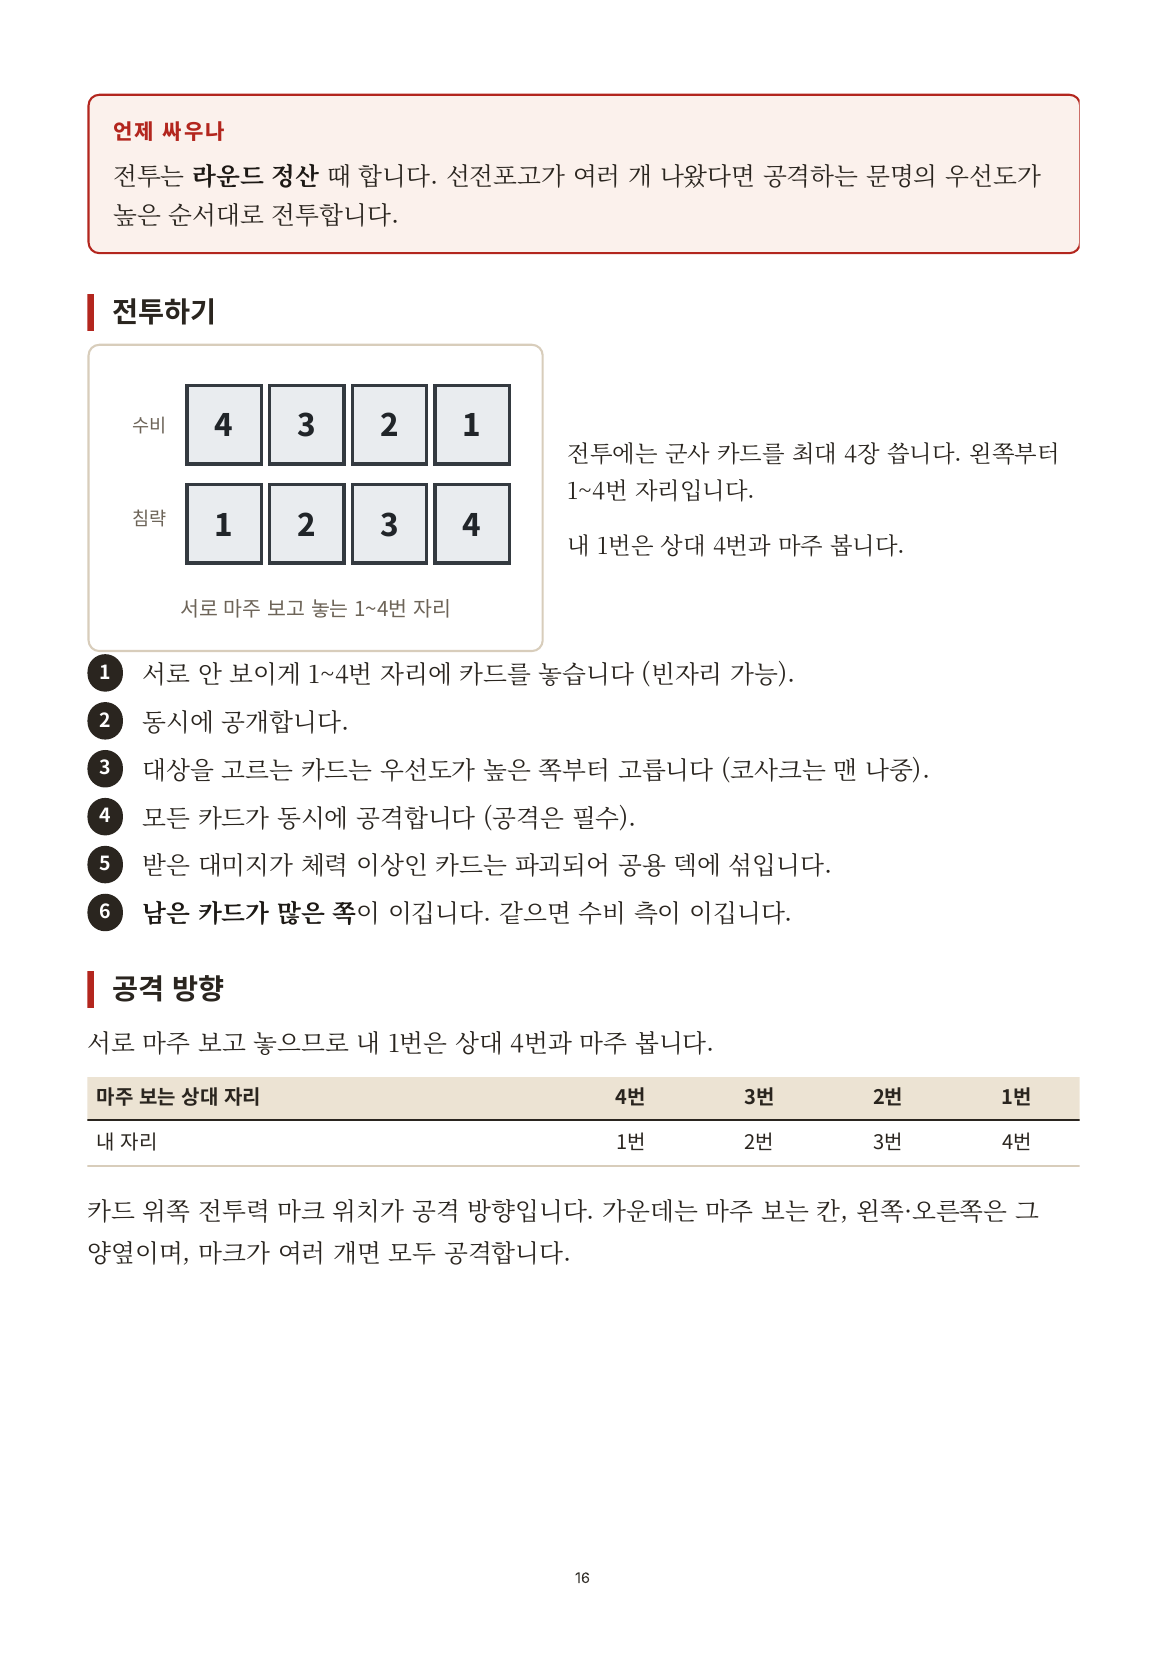
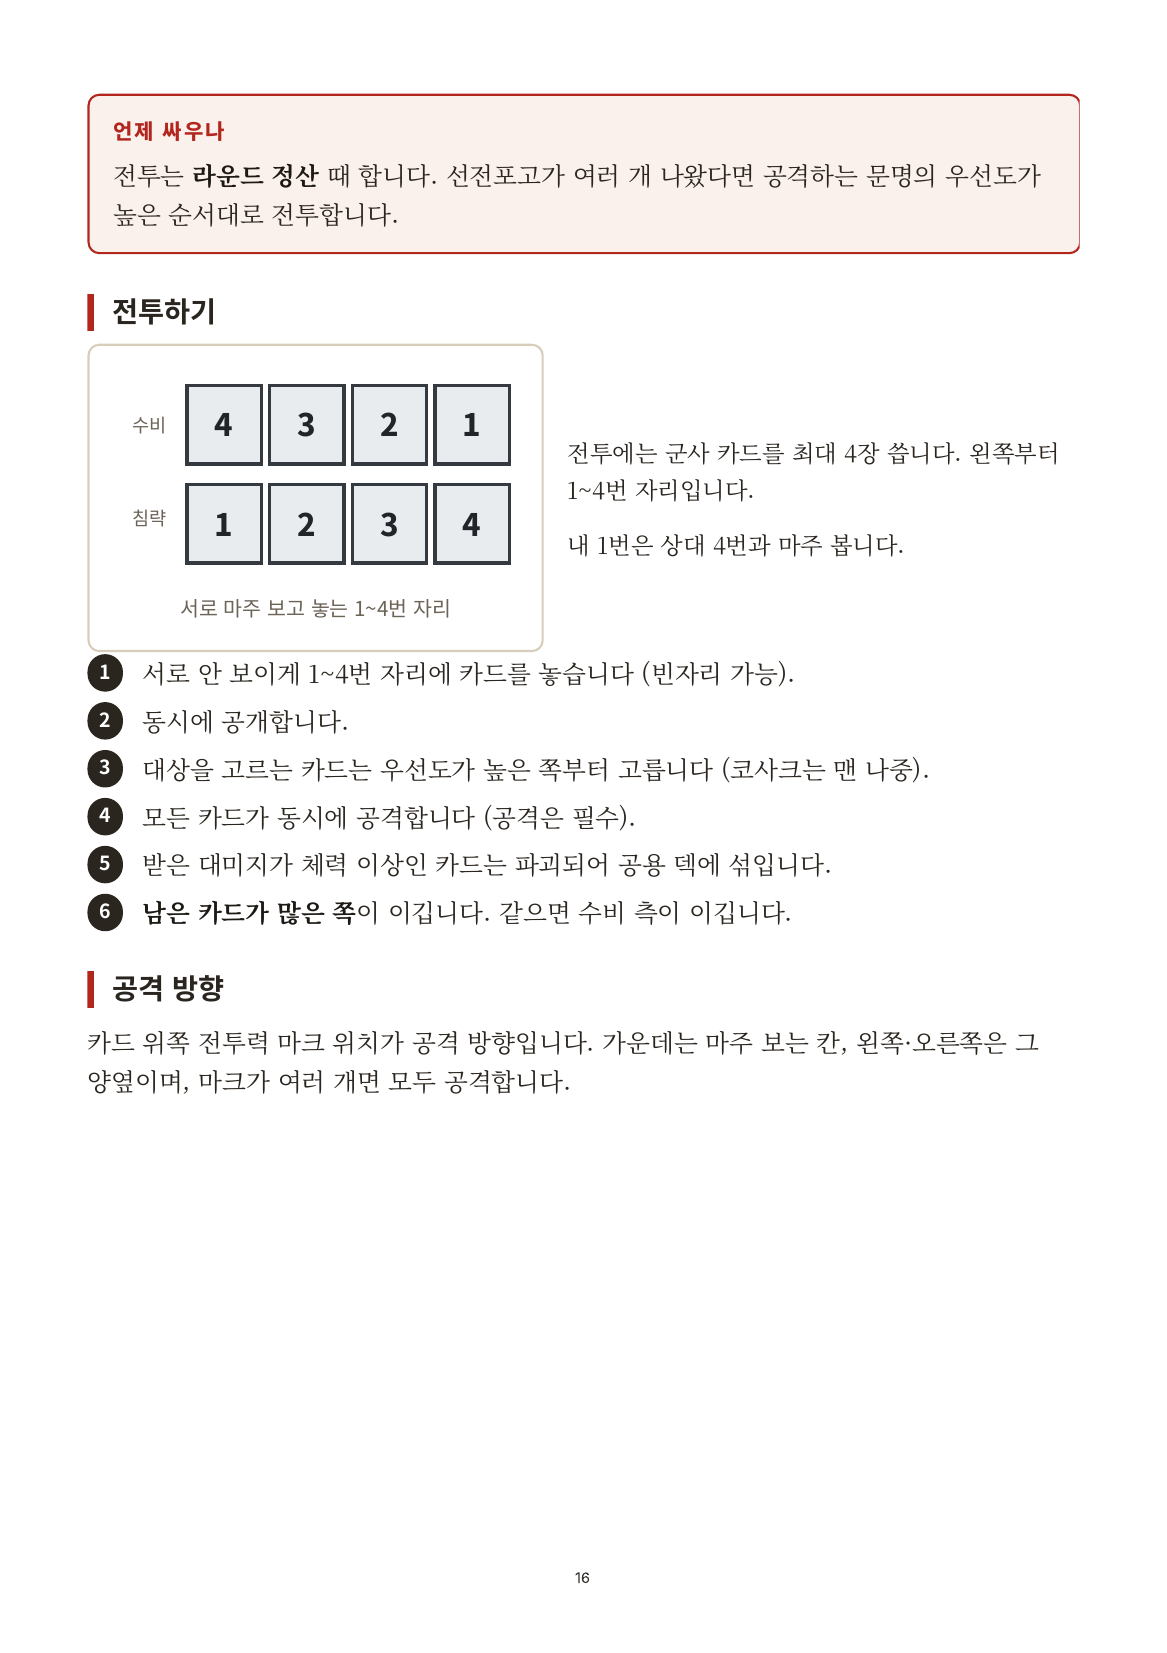
규칙서 10장: 공격 방향의 마주 보는 자리 문장·표 삭제
Claude-Session: https://claude.ai/code/session_01LEwiRiXRJPjckZxHM1aEbm

diff --git a/docs/rulebook/source/part3.html b/docs/rulebook/source/part3.html
@@ -66,11 +66,6 @@
   </ol>
 
   <h3>공격 방향</h3>
-  <p>서로 마주 보고 놓으므로 내 1번은 상대 4번과 마주 봅니다.</p>
-  <table class="small">
-    <thead><tr><th>마주 보는 상대 자리</th><th class="c">4번</th><th class="c">3번</th><th class="c">2번</th><th class="c">1번</th></tr></thead>
-    <tbody><tr><td>내 자리</td><td class="c">1번</td><td class="c">2번</td><td class="c">3번</td><td class="c">4번</td></tr></tbody>
-  </table>
   <p>카드 위쪽 전투력 마크 위치가 공격 방향입니다. 가운데는 마주 보는 칸, 왼쪽·오른쪽은 그 양옆이며, 마크가 여러 개면 모두 공격합니다.</p>
   <figure class="fig-frame">
     <div class="two" style="grid-template-columns: 1fr 24mm; align-items:center">
